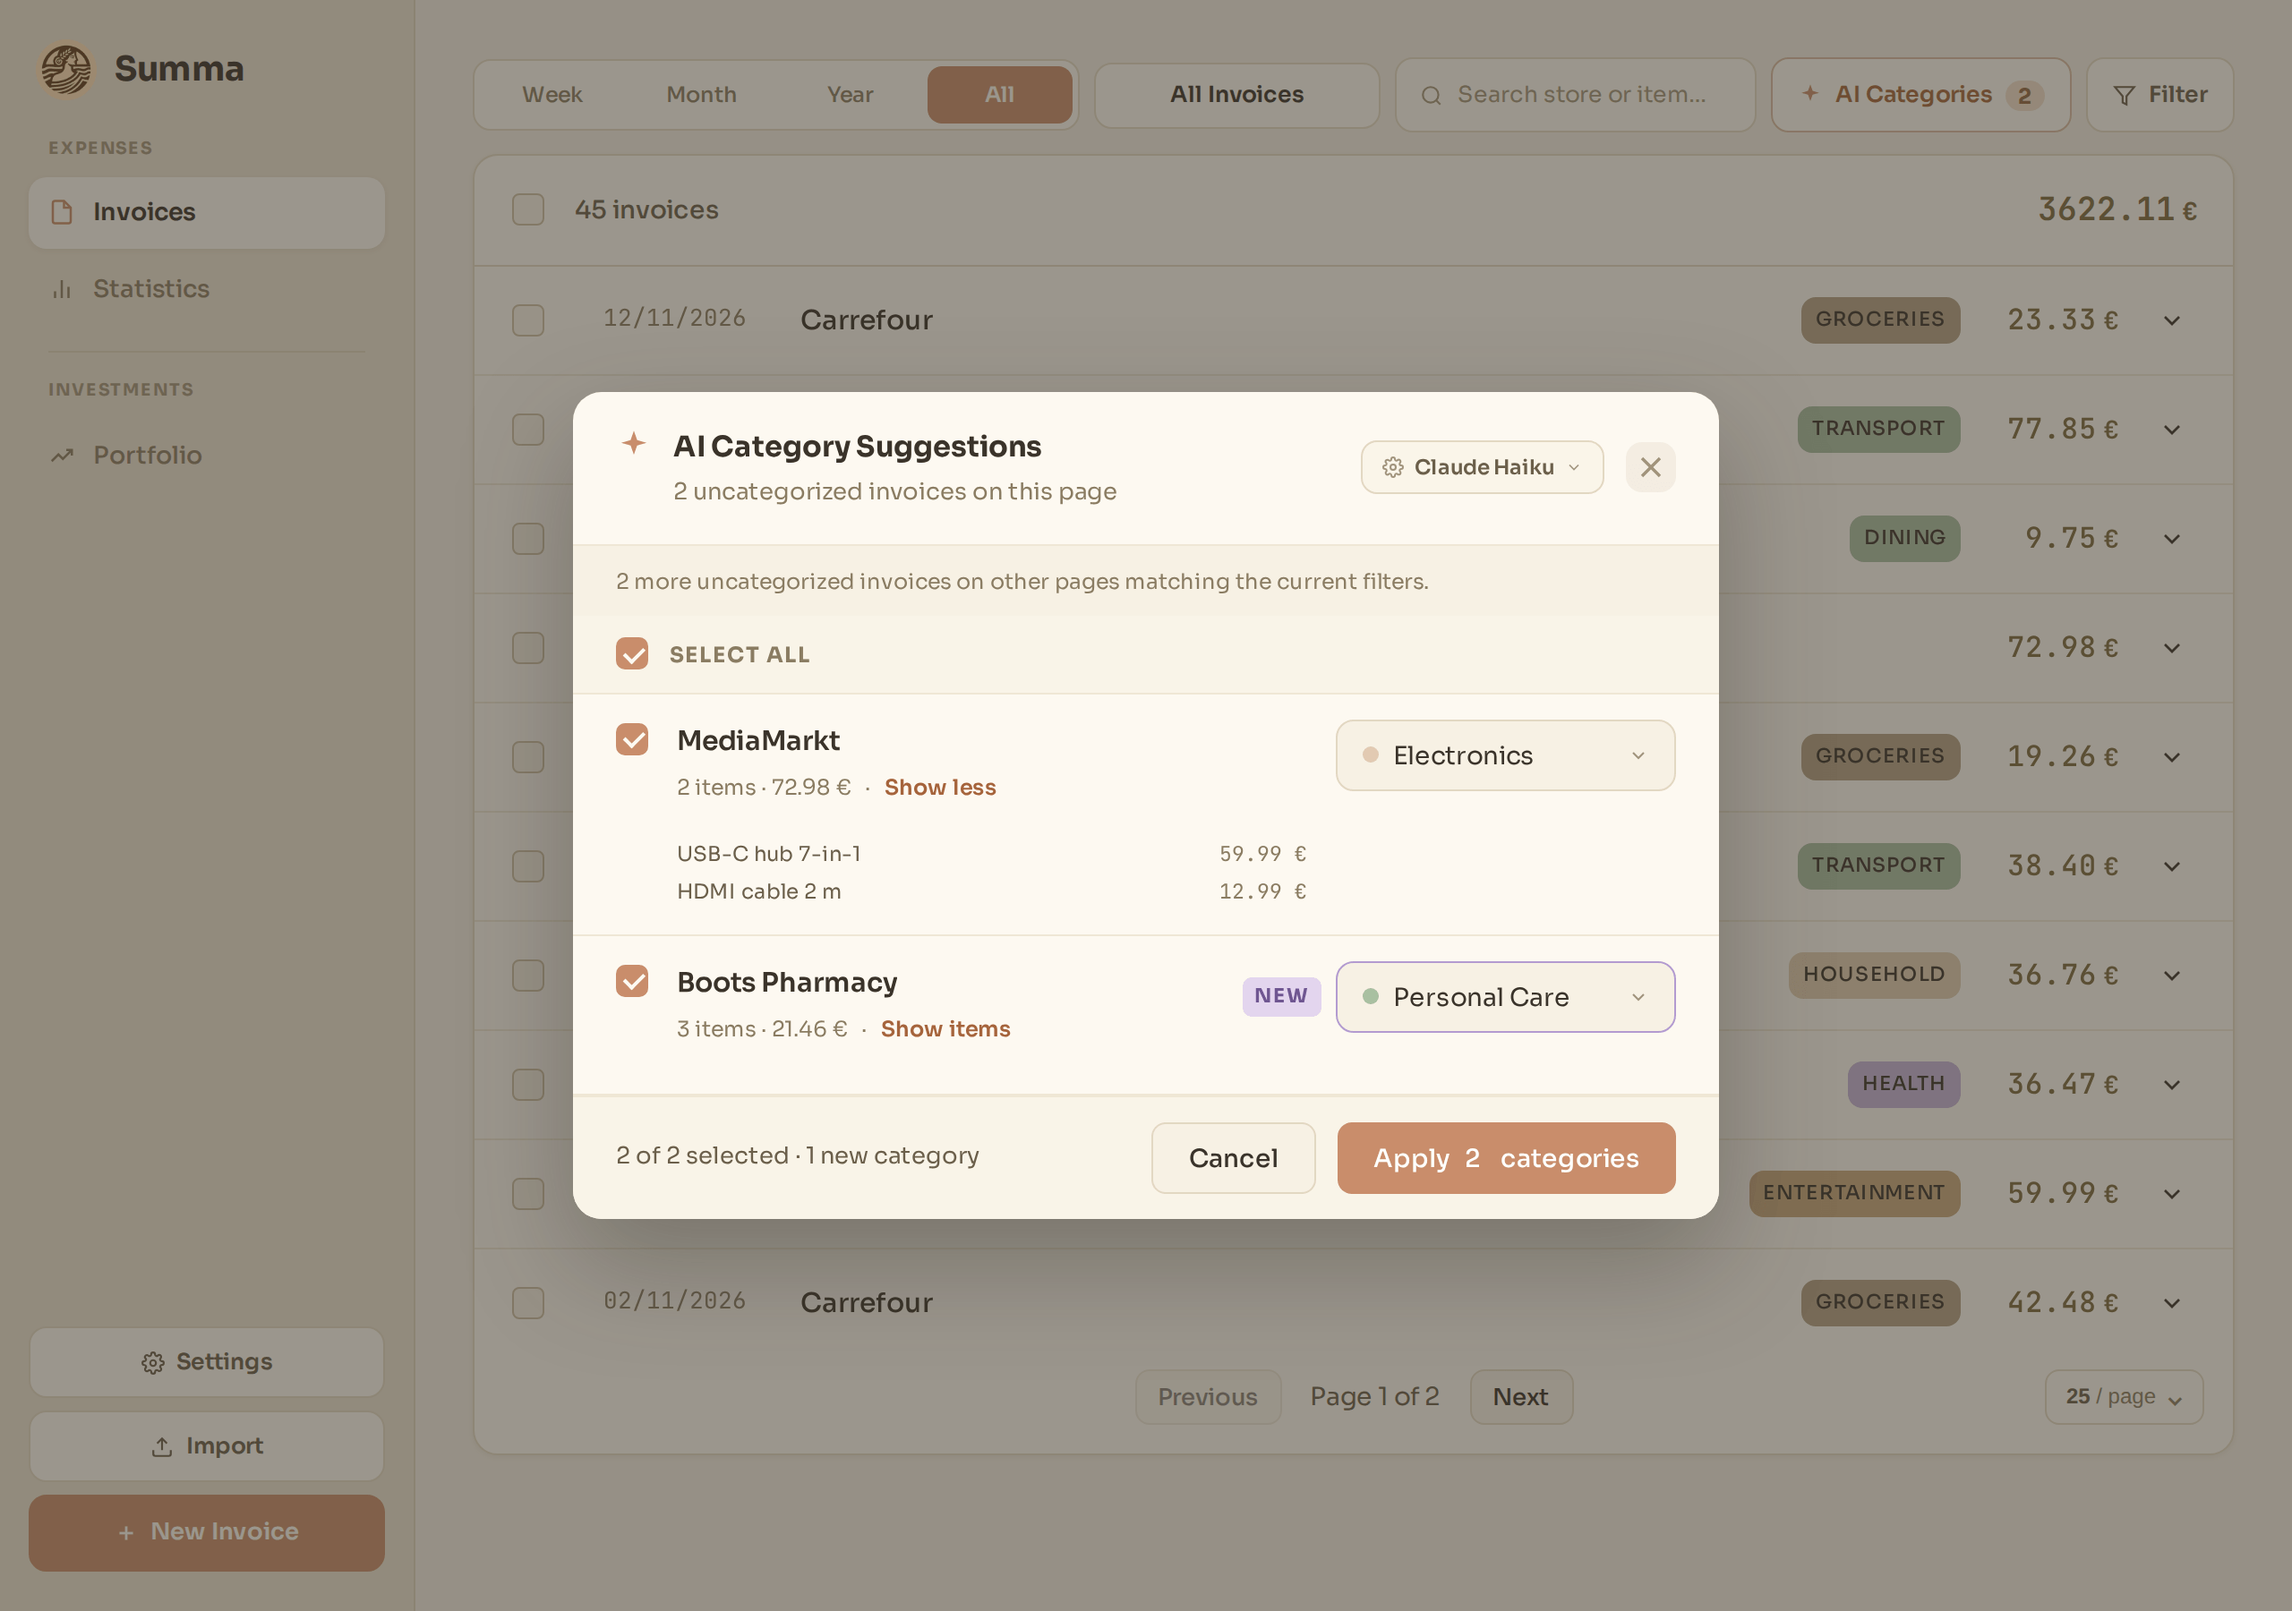
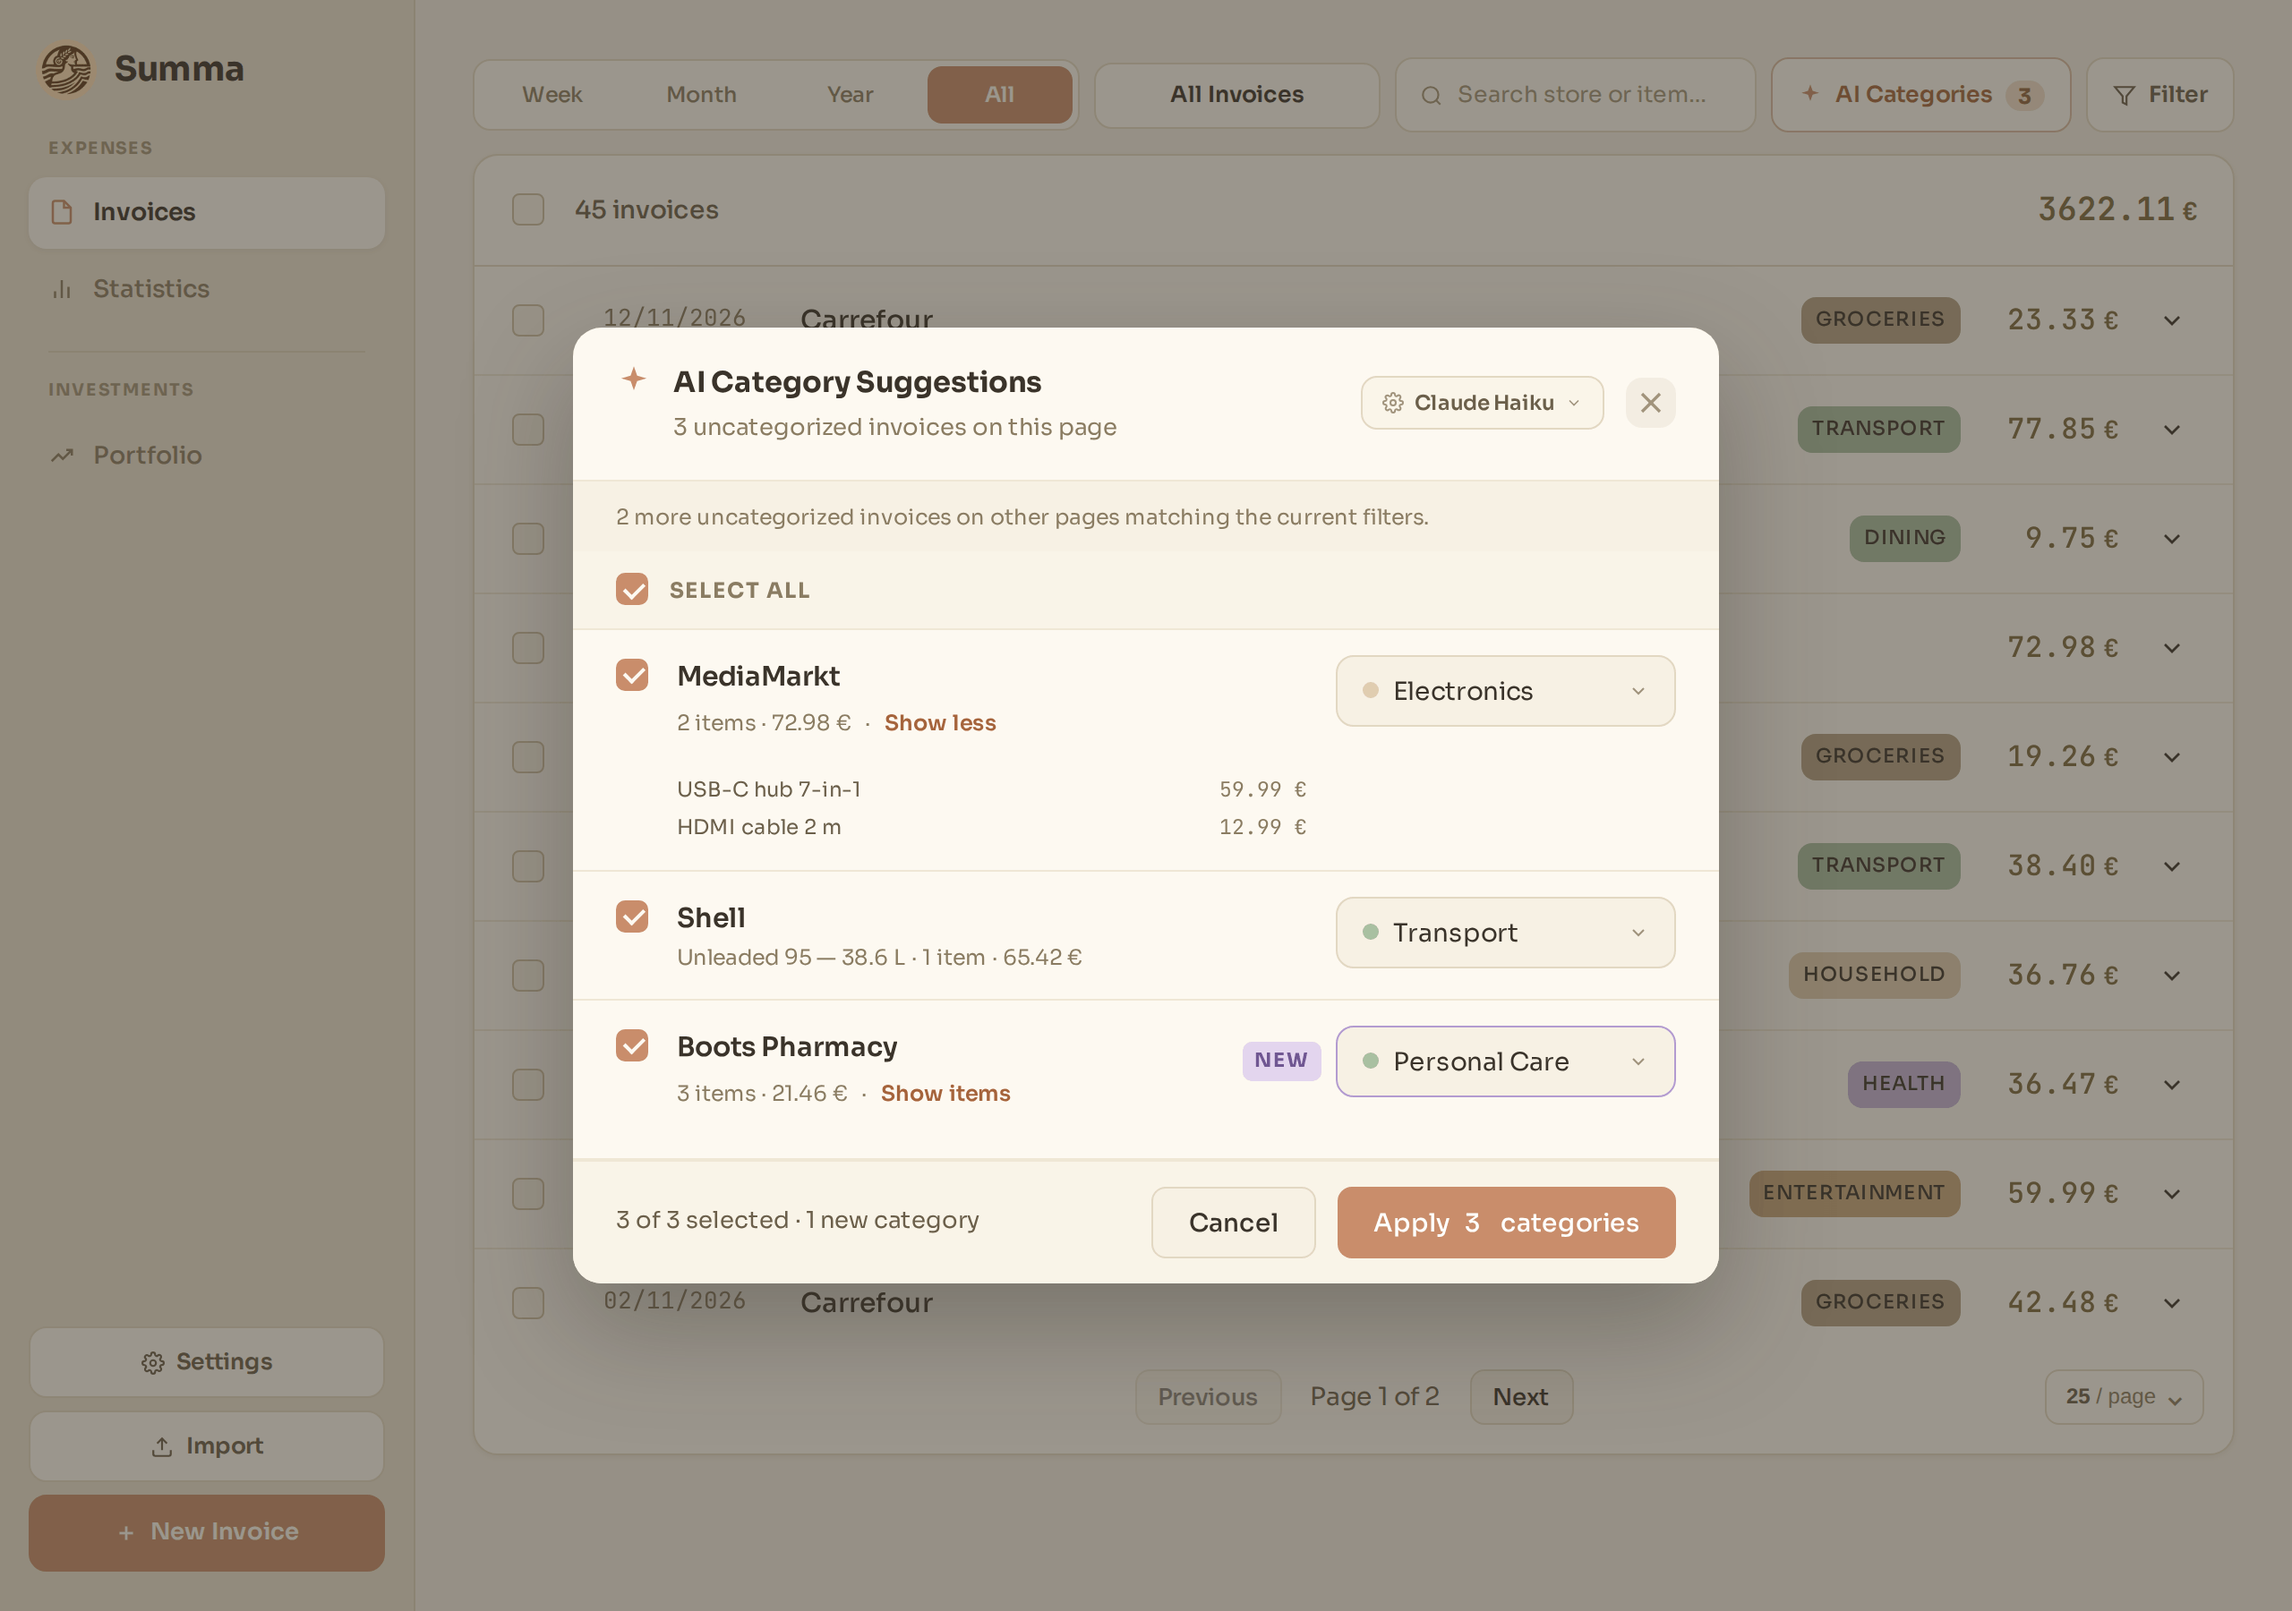
Wrap long single-item names in AI category suggestions (#68)
* Fix overflowing single-item name in AI category suggestions

* Fix: unbreakable single-item name still overflows on phones

* Keep the separator dot with the count on single-item categorize rows

* Align "·" separator spacing across categorize rows

* Make the single-item name readable without a pointer

* Guard the single-item categorize meta line with a test + screenshot data

diff --git a/tests/frontend/categorize.test.js b/tests/frontend/categorize.test.js
@@ -58,12 +58,12 @@ function stubSuggest(suggestResponse, categories = []) {
 }
 
 /** One suggestion row, shaped like the endpoint's. */
-function suggestion(id) {
+function suggestion(id, items = [{ item_name: "Cable", item_price: 42.5 }]) {
   return {
     invoice_id: id,
     store: "MediaMarkt",
     total: 42.5,
-    items: [{ item_name: "Cable", item_price: 42.5 }],
+    items,
     category: "Electronics",
     is_new: false,
   };
@@ -254,4 +254,57 @@ describe("runAnalysis", () => {
 
     expect(document.querySelector(".categorize-note")).toBeNull();
   });
+});
+
+// A single-item row has no expand toggle, so its name and count share one
+// wrapping line: the name may break anywhere, the count stays in one piece.
+describe("single-item meta line", () => {
+  beforeEach(() => {
+    mountModalFixture();
+    state.invoices = [{ id: 1, category: null }];
+    state.uncategorizedCount = 1;
+    state.filterMode = "month";
+  });
+
+  afterEach(() => {
+    vi.unstubAllGlobals();
+  });
+
+  async function renderSingleItem(itemName) {
+    const items = [{ item_name: itemName, item_price: 42.5 }];
+    stubSuggest({ suggestions: [suggestion(1, items)], total: 1, count: 1 });
+    await runAnalysis();
+    return document.querySelector(".categorize-row");
+  }
+
+  it("splits the escaped name from the count", async () => {
+    const rawName = '<b>Tom & "Jerry"</b>';
+    const row = await renderSingleItem(rawName);
+
+    expect(row.querySelector(".categorize-meta-button")).toBeNull();
+    const line = row.querySelector(".categorize-meta-line");
+    expect(line).not.toBeNull();
+
+    const name = line.querySelector(":scope > .categorize-meta-name");
+    expect(name.textContent).toBe(rawName);
+    expect(name.querySelector("b")).toBeNull();
+
+    const count = line.querySelector(":scope > .categorize-meta-count");
+    expect(count.querySelector(".categorize-meta-sep")).not.toBeNull();
+    expect(count.textContent).toContain("1 item ·");
+  });
+
+  it.each(["", null])(
+    "leaves out the name and separator for item name %j",
+    async (itemName) => {
+      const row = await renderSingleItem(itemName);
+
+      expect(row.querySelector(".categorize-meta-name")).toBeNull();
+      expect(row.querySelector(".categorize-meta-sep")).toBeNull();
+      const count = row.querySelector(
+        ".categorize-meta-line > .categorize-meta-count",
+      );
+      expect(count.textContent.trim()).toMatch(/^1 item ·/);
+    },
+  );
 });

diff --git a/static/js/categorize.js b/static/js/categorize.js
@@ -197,10 +197,8 @@ function rowHtml(row, index) {
   const hasExpandableItems = itemCount > 1;
   const isExpanded = reviewRows[index].expanded;
   const total = withEuro(formatCurrency(row.total));
-  const metaLead =
-    itemCount === 1
-      ? `${escapeHtml(groups[0]?.name || "No items")} · 1 item · ${total}`
-      : `${itemCount} items · ${total}`;
+  const metaLead = `${itemCount} item${itemCount === 1 ? "" : "s"} · ${total}`;
+  const itemName = itemCount === 1 ? escapeHtml(groups[0].name) : "";
   const toggleLabel = isExpanded ? "Show less" : "Show items";
 
   return `
@@ -227,7 +225,18 @@ function rowHtml(row, index) {
                  <span class="categorize-meta-sep" aria-hidden="true">·</span>
                  <span class="categorize-meta-toggle" data-el="categorize-toggle-label">${toggleLabel}</span>
                </button>`
-            : `<span class="categorize-meta-text">${metaLead}</span>`
+            : `<span class="categorize-meta-line">
+                 ${
+                   itemName
+                     ? `<span class="categorize-meta-name">${itemName}</span>`
+                     : ""
+                 }
+                 <span class="categorize-meta-count">${
+                   itemName
+                     ? `<span class="categorize-meta-sep" aria-hidden="true">·</span> `
+                     : ""
+                 }${metaLead}</span>
+               </span>`
         }
         ${
           hasExpandableItems

diff --git a/static/css/categorize.css b/static/css/categorize.css
@@ -466,6 +466,23 @@
   white-space: nowrap;
 }
 
+/* Single-item rows have no expand, so the name wraps instead of truncating:
+   that keeps the full text readable without hover (the markup's whitespace
+   spaces the separator). */
+.categorize-meta-line {
+  display: block;
+  font-size: 12px;
+  color: #8a7c62;
+}
+
+.categorize-meta-name {
+  overflow-wrap: anywhere;
+}
+
+.categorize-meta-count {
+  white-space: nowrap;
+}
+
 .categorize-meta-toggle {
   flex: none;
   font-size: 12px;

diff --git a/static/sw.js b/static/sw.js
@@ -3,7 +3,7 @@
  * Provides offline support and caching strategies.
  */
 
-const CACHE_NAME = "summa-cache-v324";
+const CACHE_NAME = "summa-cache-v327";
 // JS modules, CSS files and fonts are not listed here: they are discovered at
 // install time from the server-rendered /static/js-manifest.json,
 // /static/css-manifest.json and /static/fonts-manifest.json (which glob
